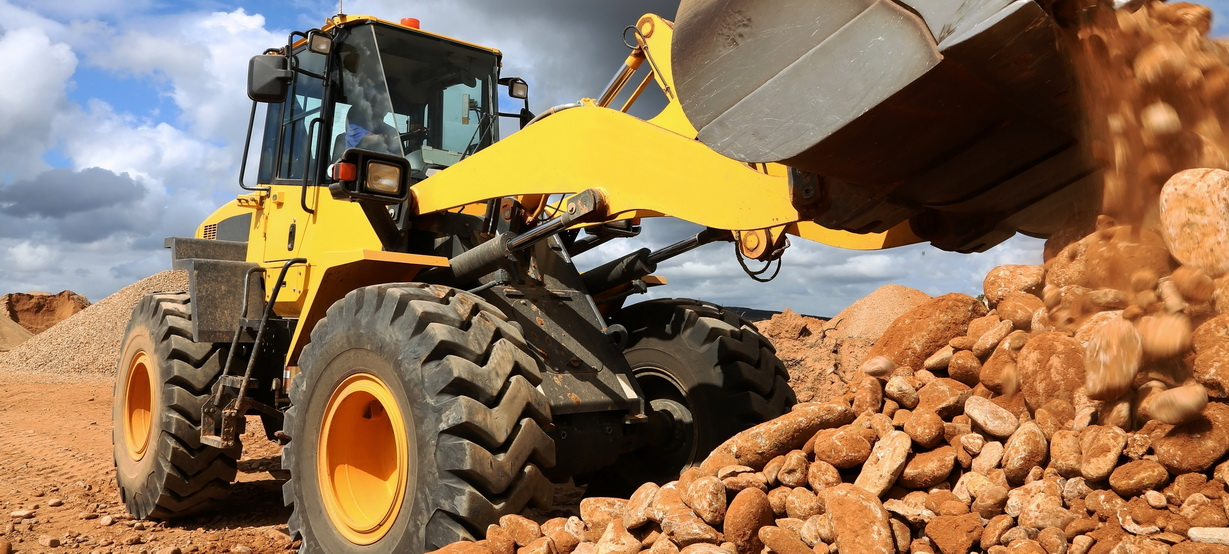
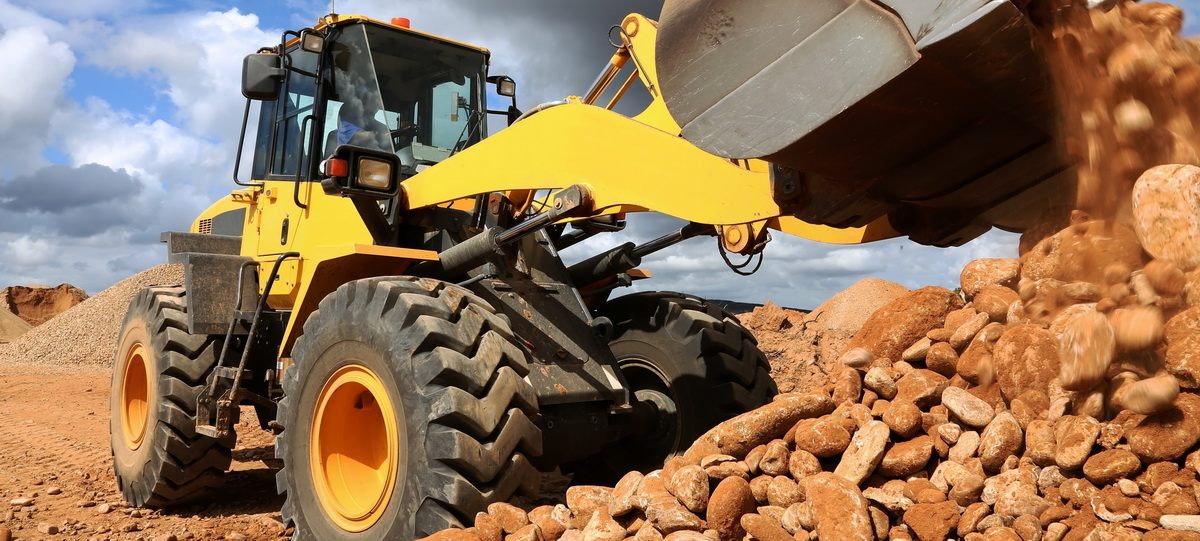
baner

diff --git a/site/css/styles.css b/site/css/styles.css
@@ -29,15 +29,52 @@ body {
 
 
 
-337 434 554
+/*Home page*/
+
+.container .jumbotron {
+	box-shadow: 0 2px 30px #404040;
+	border: 1px solid #404040;
+*/
+}
+
+
+
 
 /***********************/
 @media (min-width: 1200px) {
-	.jumbotron {
+	.container .jumbotron {
 		background: url('../images/baner1200.jpg') no-repeat;
-		height: 554px;
-		box-shadow: 0 0 50px #4e4e4e;
-		border: 2px solid #4e4e4e;
-
+		height: 541px;
+		
 	}
 }
+
+@media (min-width: 992px) and (max-width: 1199px) {
+	.container .jumbotron {
+		background: url('../images/baner992.jpg') no-repeat;
+		height: 447px;
+		
+	}
+}
+
+@media (min-width: 768px) and (max-width: 991px) {
+	.container .jumbotron {
+		background: url('../images/baner768.jpg') no-repeat;
+		height: 346px;
+		
+	}
+}
+
+@media (max-width: 767px) {
+	.container .jumbotron {
+
+		margin-top: 0;
+		padding: 0;
+	
+		
+
+	}
+
+}
+
+

diff --git a/site/index.html b/site/index.html
@@ -31,7 +31,7 @@
 
   <div id="main-content" class="container">
   	<div class="jumbotron">
-  		<img src="images/baner778.jpg" alt="baner" class="img-responsive visible-xs">
+  		<img src="images/baner768.jpg" alt="baner" class="img-responsive visible-xs">
   	</div>
 
   </div>
